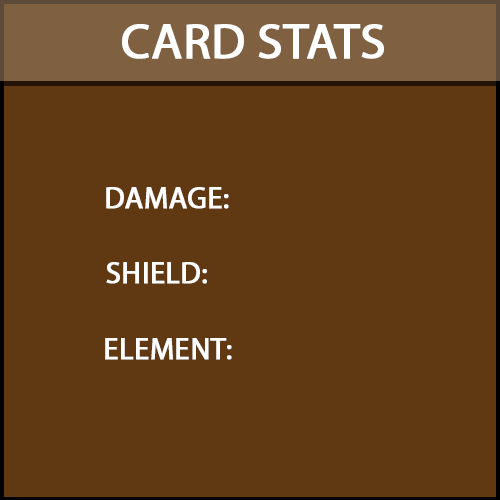
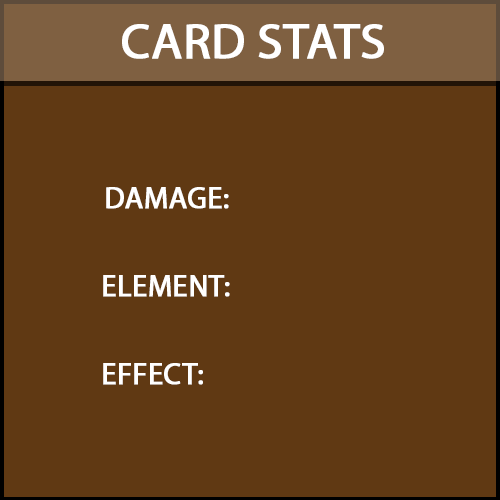
Added Elemental effects to the tooltip on the battle board scene.

Changed region(s): [[0.18, 0.66, 0.48, 0.78], [0.18, 0.51, 0.48, 0.6]]

diff --git a/Tarot/Assets/Scripts/Conner/UIManager.cs b/Tarot/Assets/Scripts/Conner/UIManager.cs
@@ -8,6 +8,7 @@ public class UIManager : MonoBehaviour
 
     public GameObject gameObject;
     public GameObject text; 
+    string element;
 
 
     // Start is called before the first frame update
@@ -35,7 +36,7 @@ public class UIManager : MonoBehaviour
             gameObject.SetActive(true);
             gameObject.transform.position = this.transform.position + new Vector3(-2f, 2f, 0f);
 
-            gameObject.transform.GetChild(4).transform.GetComponent<TextMesh>().text = this.GetComponent<CardScriptReference>().elem;
+            element = gameObject.transform.GetChild(4).transform.GetComponent<TextMesh>().text = this.GetComponent<CardScriptReference>().elem;
             gameObject.transform.GetChild(5).transform.GetComponent<TextMesh>().text = this.GetComponent<CardScriptReference>().value.ToString();
 
 
@@ -51,6 +52,25 @@ public class UIManager : MonoBehaviour
             { gameObject.transform.GetChild(0).transform.GetComponent<TextMesh>().text = "Past-Present Card"; }
 
             text.SetActive(true);
+
+            // positions element effect
+            if (element.Equals("fire"))
+            {
+                gameObject.transform.GetChild(6).transform.GetComponent<TextMesh>().text = "Enemy cannot heal within same phase"; 
+            }
+            else if (element.Equals("earth"))
+            {
+                gameObject.transform.GetChild(6).transform.GetComponent<TextMesh>().text = "50% Shields Extra";
+            }
+            else if (element.Equals("air"))
+            {
+                gameObject.transform.GetChild(6).transform.GetComponent<TextMesh>().text = "Ignore Shield";
+            }
+            else
+            {
+                gameObject.transform.GetChild(6).transform.GetComponent<TextMesh>().text = "50% lifesteal";
+            }
+
         }
 
     }
